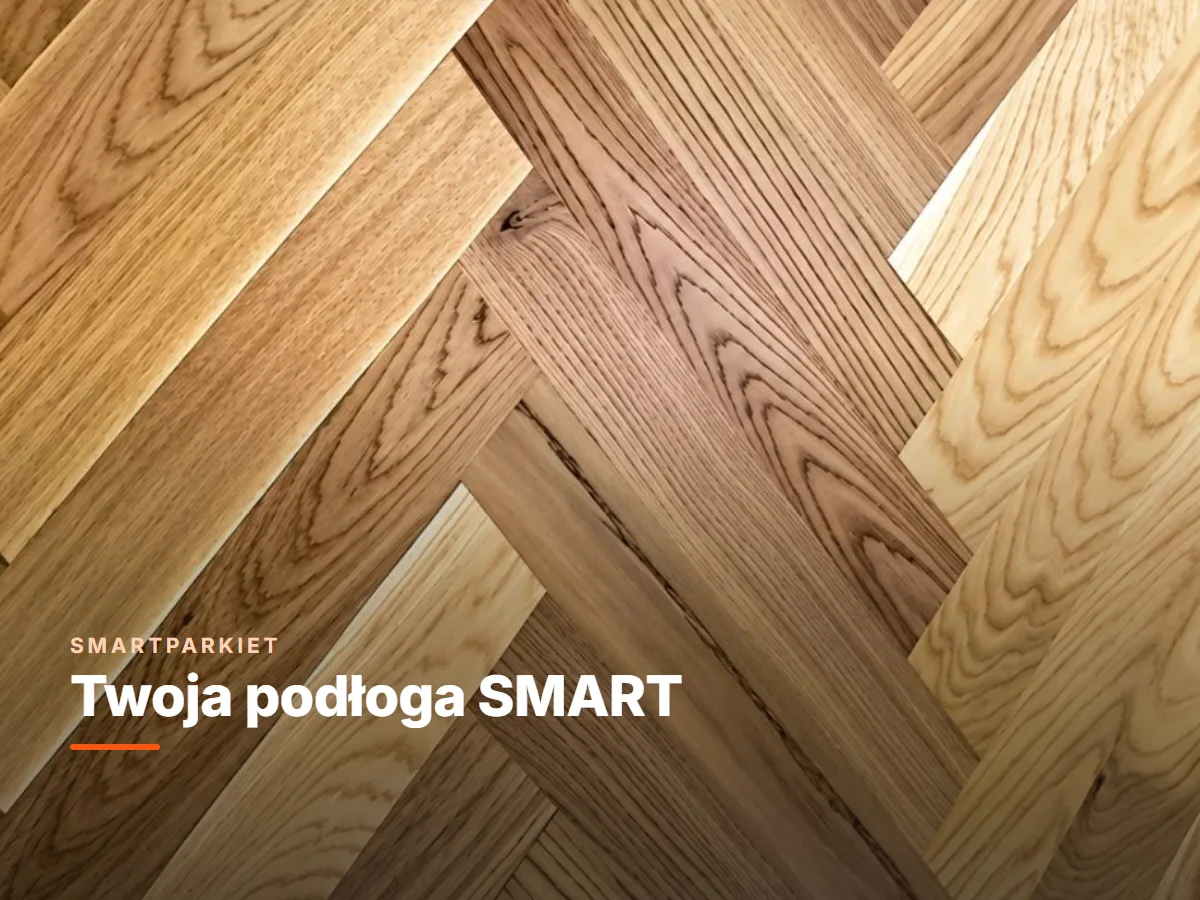
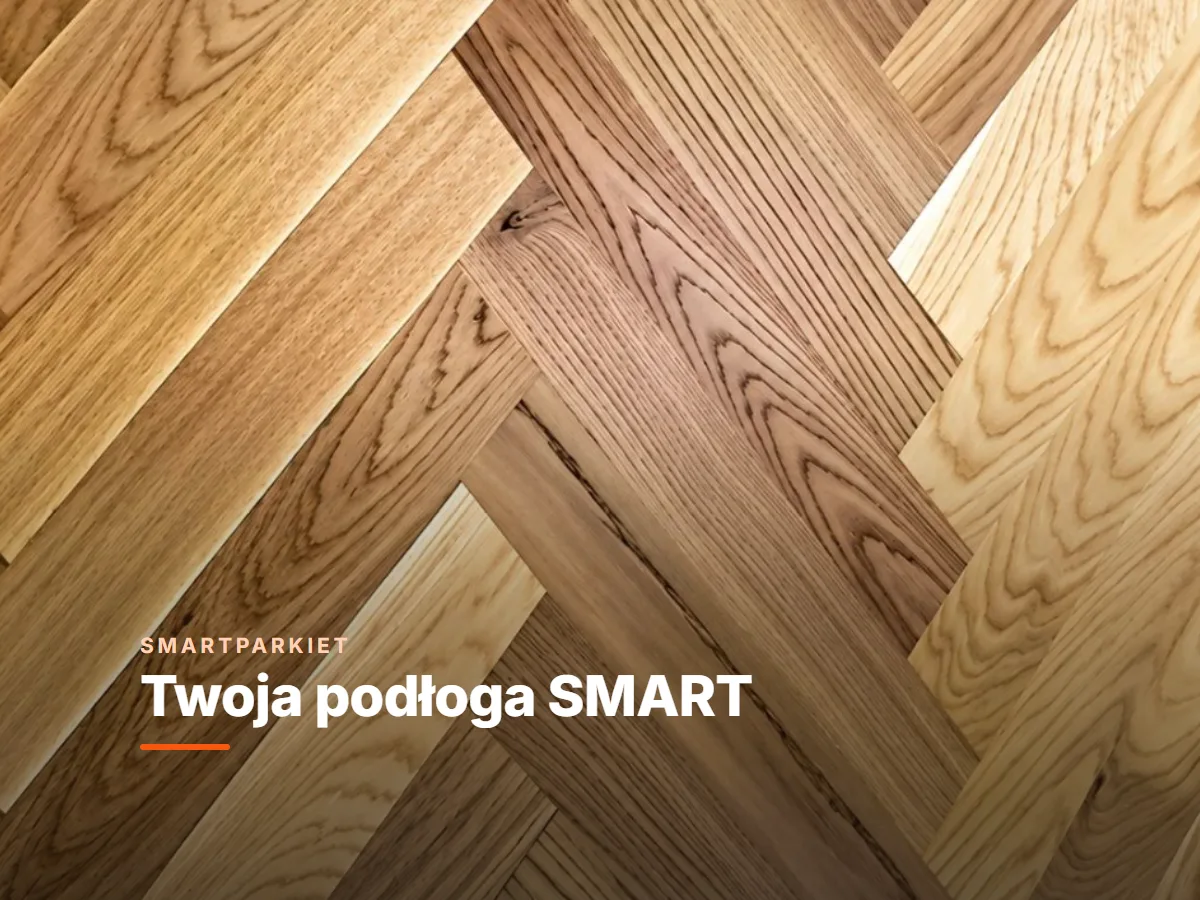
Kalkulator: odstęp podpisu od lewej krawędzi zdjęcia podglądu

Changed region(s): [[0.0617, 0.6844, 0.6475, 0.84]]

diff --git a/wycena.html b/wycena.html
@@ -1770,7 +1770,7 @@ figure{margin:0}
   ['dragleave','drop'].forEach(ev=>drop.addEventListener(ev,e=>{e.preventDefault();drop.classList.remove('over');}));
   drop.addEventListener('drop',e=>dodaj(e.dataTransfer.files));
   /* Artur 14.10 10:26: w podgladzie jego zdjecie parkietu (bez kiczowatej ramki) */
-  pokaz('img/podloga-smart.webp?v=2','czeka na zdjęcia');
+  pokaz('img/podloga-smart.webp?v=3','czeka na zdjęcia');
 
   /* ---- rozpoznawanie zdjecia przez wlasny serwer (worker) ----
      Dopoki ANALIZA_URL jest puste, przycisk sie nie pokazuje i strona
